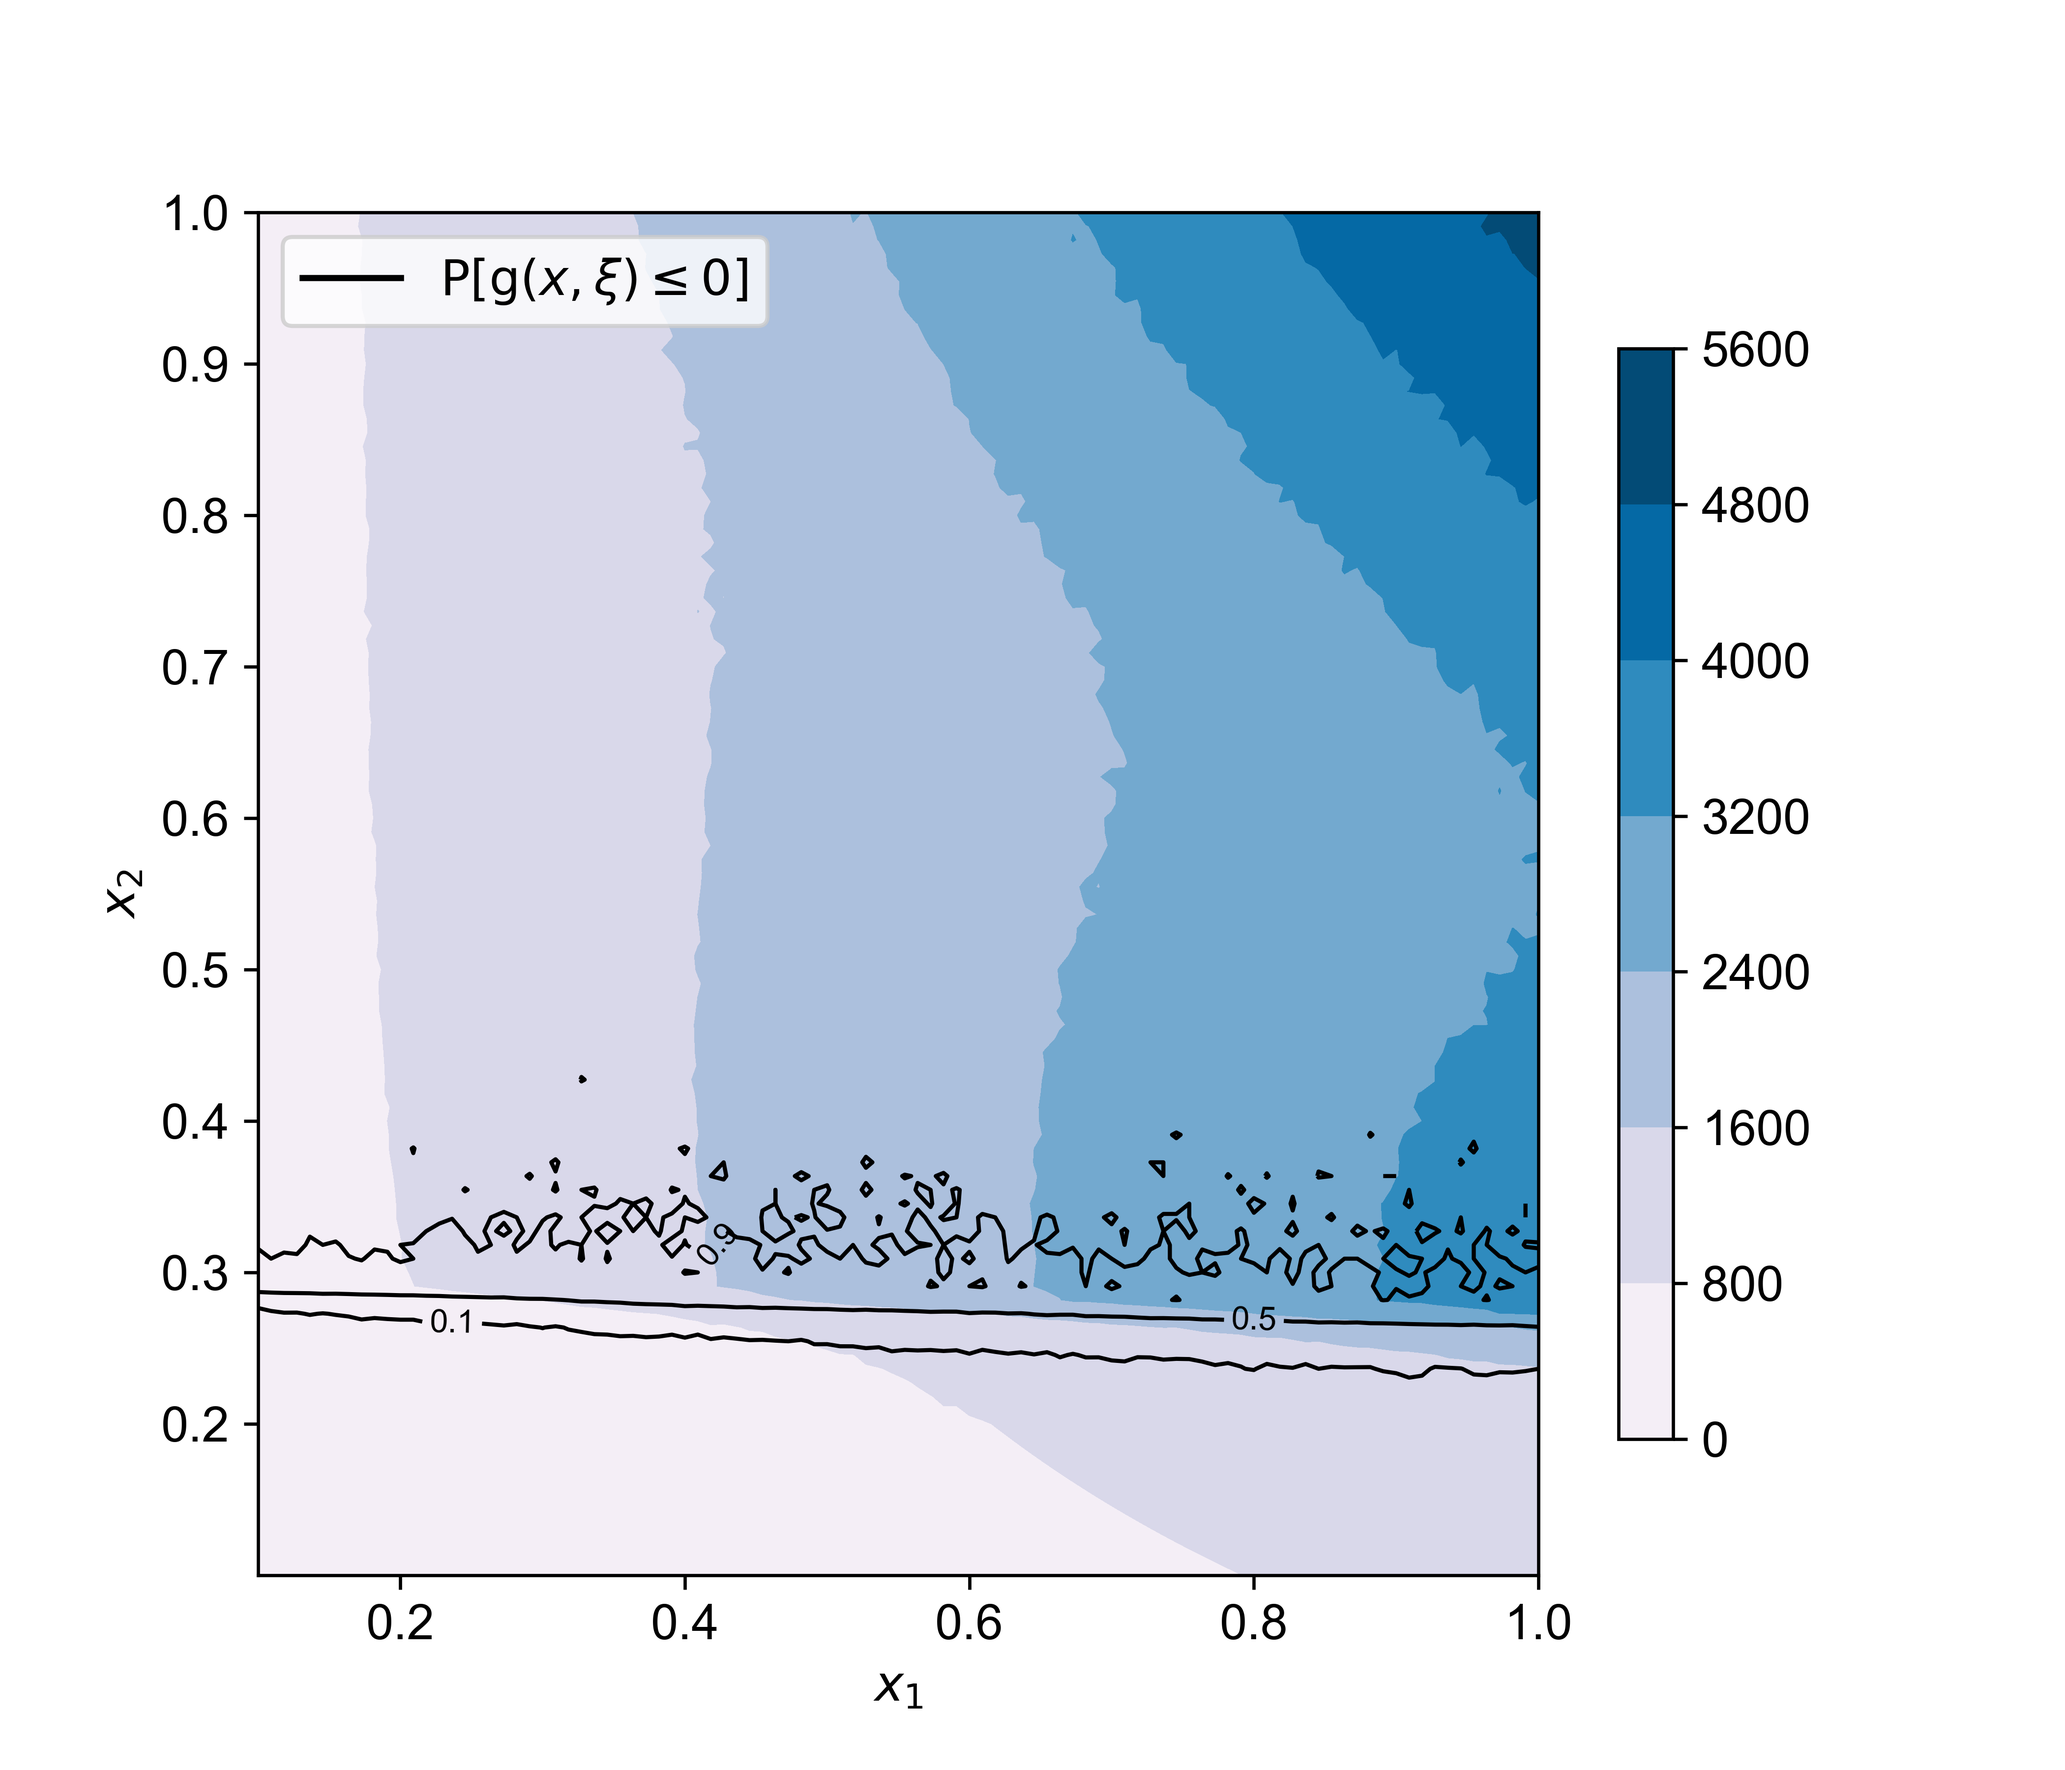
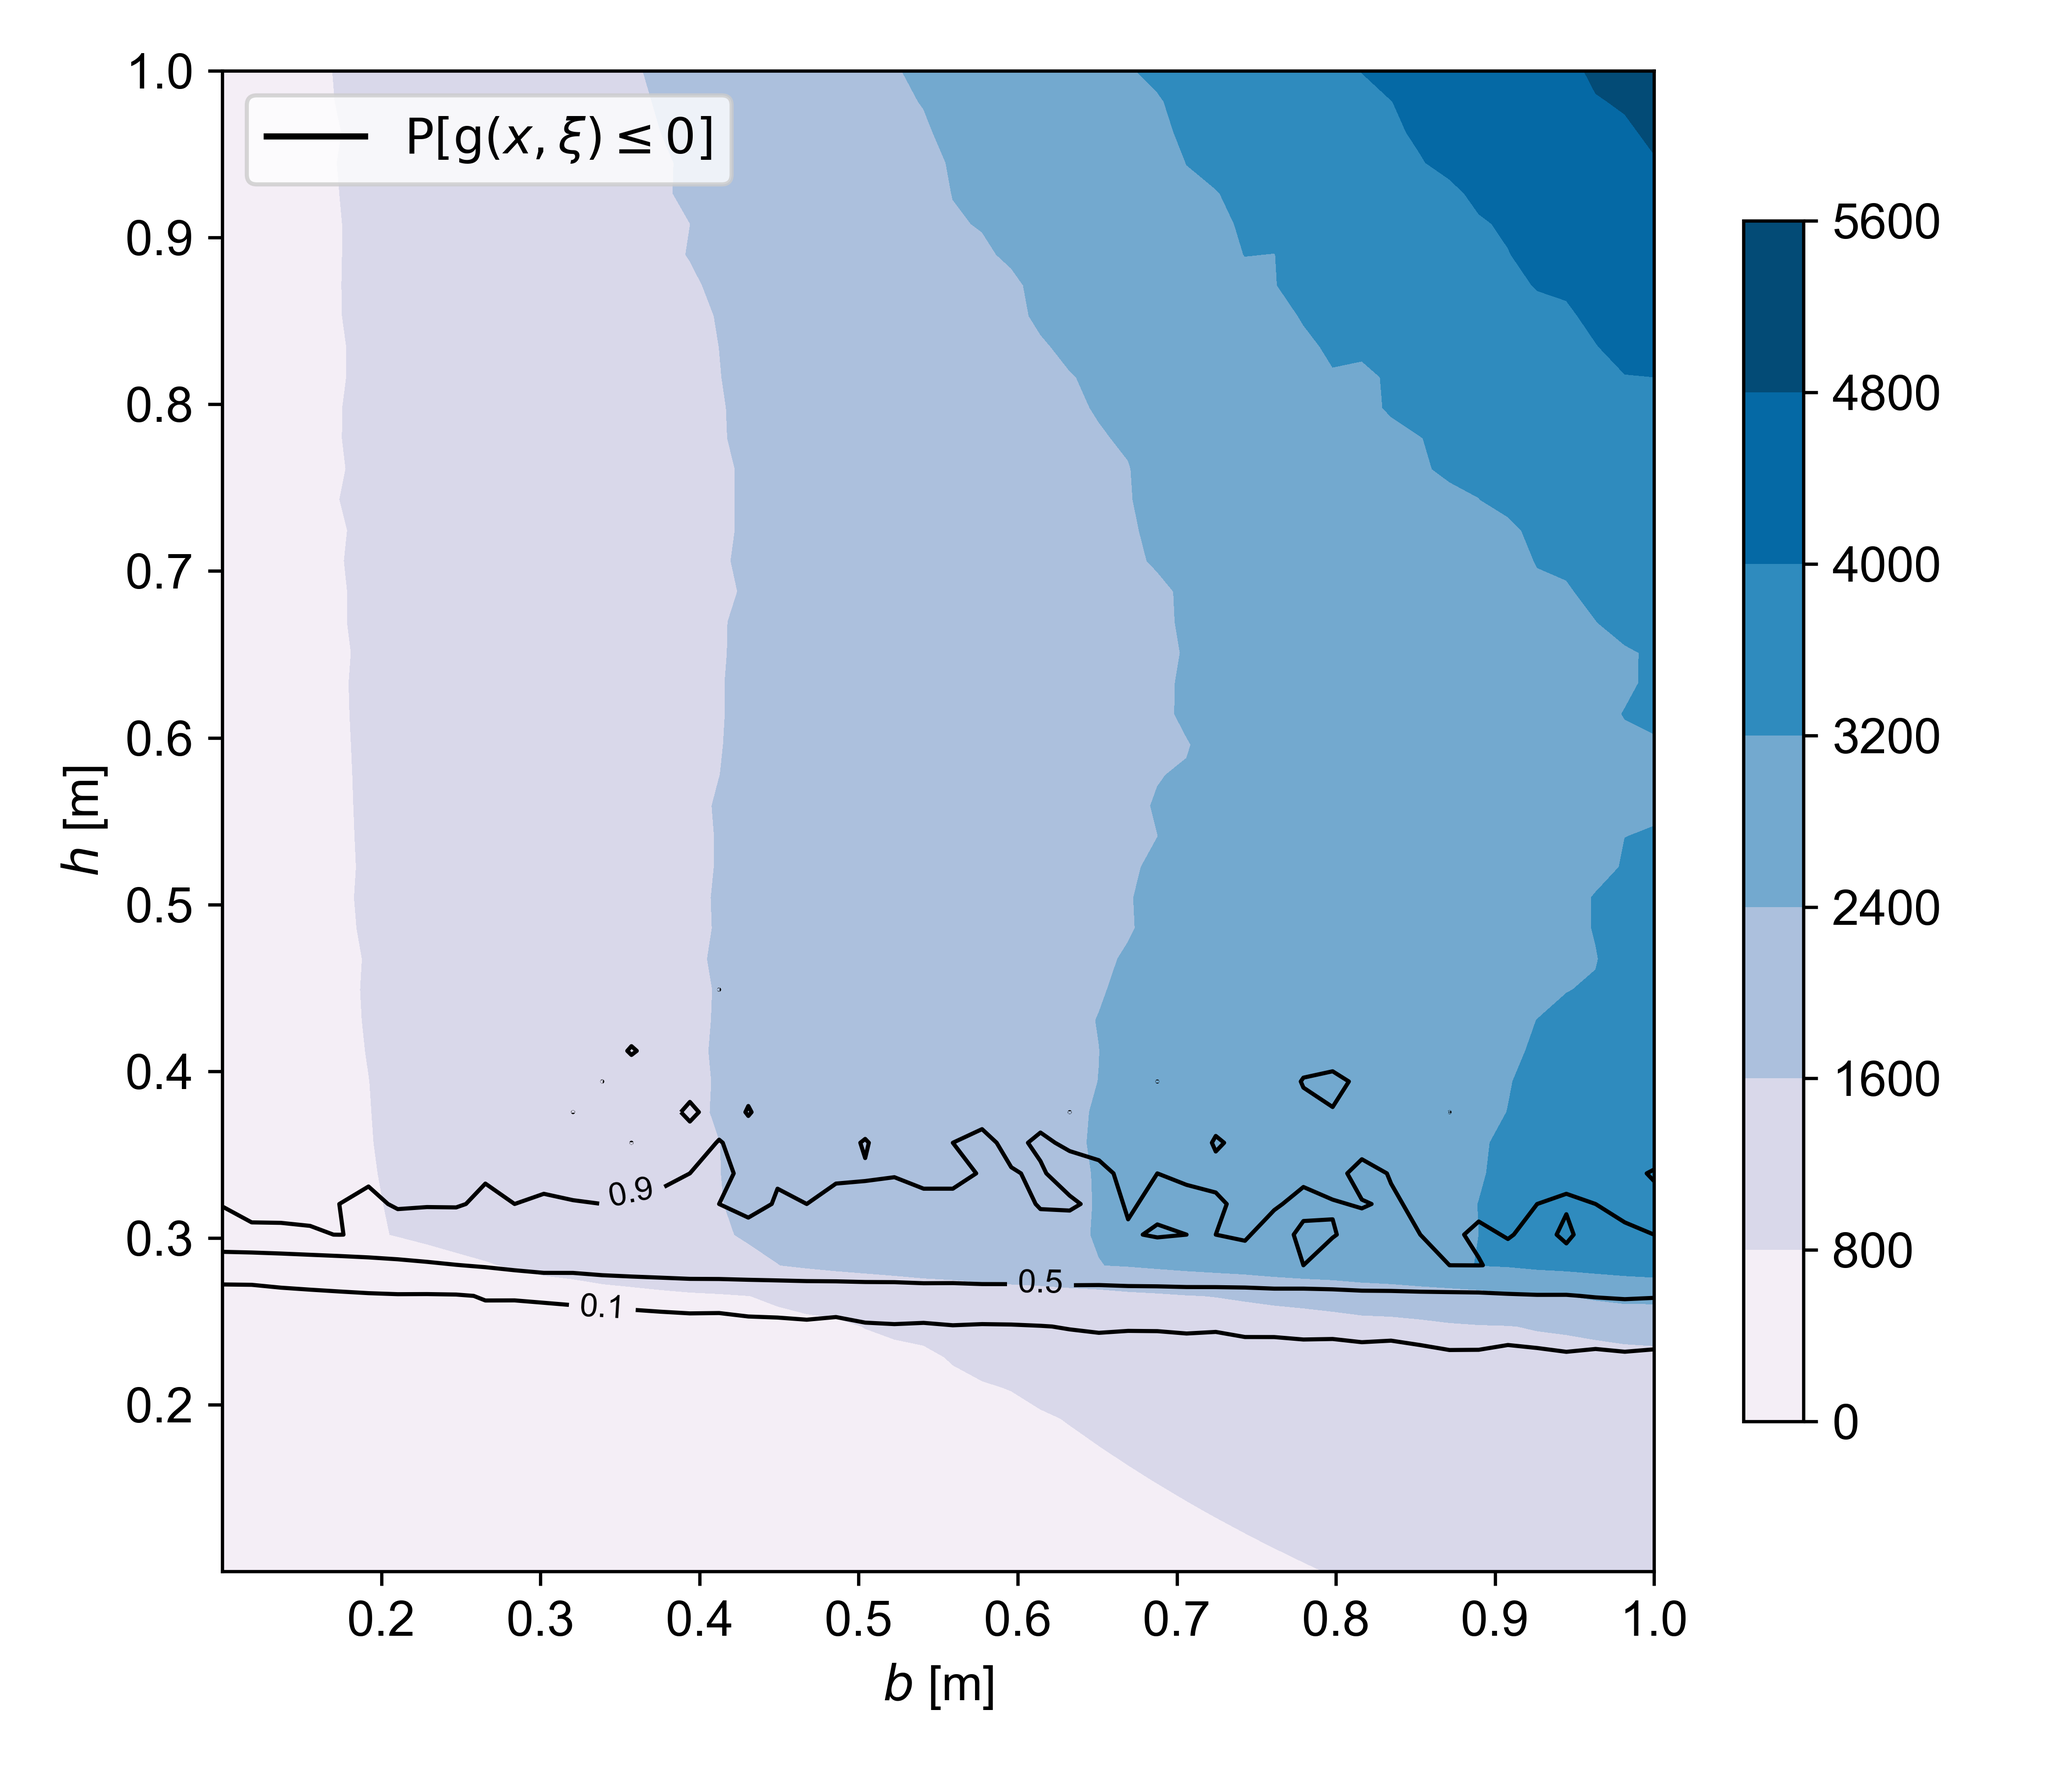
updated figures - contour

diff --git a/examples/dce/gp_prestress.py b/examples/dce/gp_prestress.py
@@ -51,9 +51,10 @@ def plotcontour2d(problem, gp1, gp2):
     # PI =   pi.reshape(X.shape)
     # toc()
 
-    # TODO steps=250, nsamples=int(1e3) 
+    # TODO steps=100, nsamples=int(5e2) estimate 20 hours 
+    # TODO steps=50, nsamples=int(1e3) 
     tic() 
-    steps = 100
+    steps = 50 
     x = torch.linspace(0.1, 1, steps)
     y = torch.linspace(0.1, 1, steps)
     X, Y = torch.meshgrid(x, y, indexing='ij')
@@ -180,7 +181,7 @@ class Model():
         return -(concrete + tendons + formwork)
         
     def g(self): 
-        # P >> 0 for feasible (e, P), hence g < 0 for feasible section 
+        # P >> 0 if feasible (e, P) else 0, and g < 0 indicates feasible section 
         return -self.m.flatten() + 1 
 
 def gaussian_process(npoints): 
